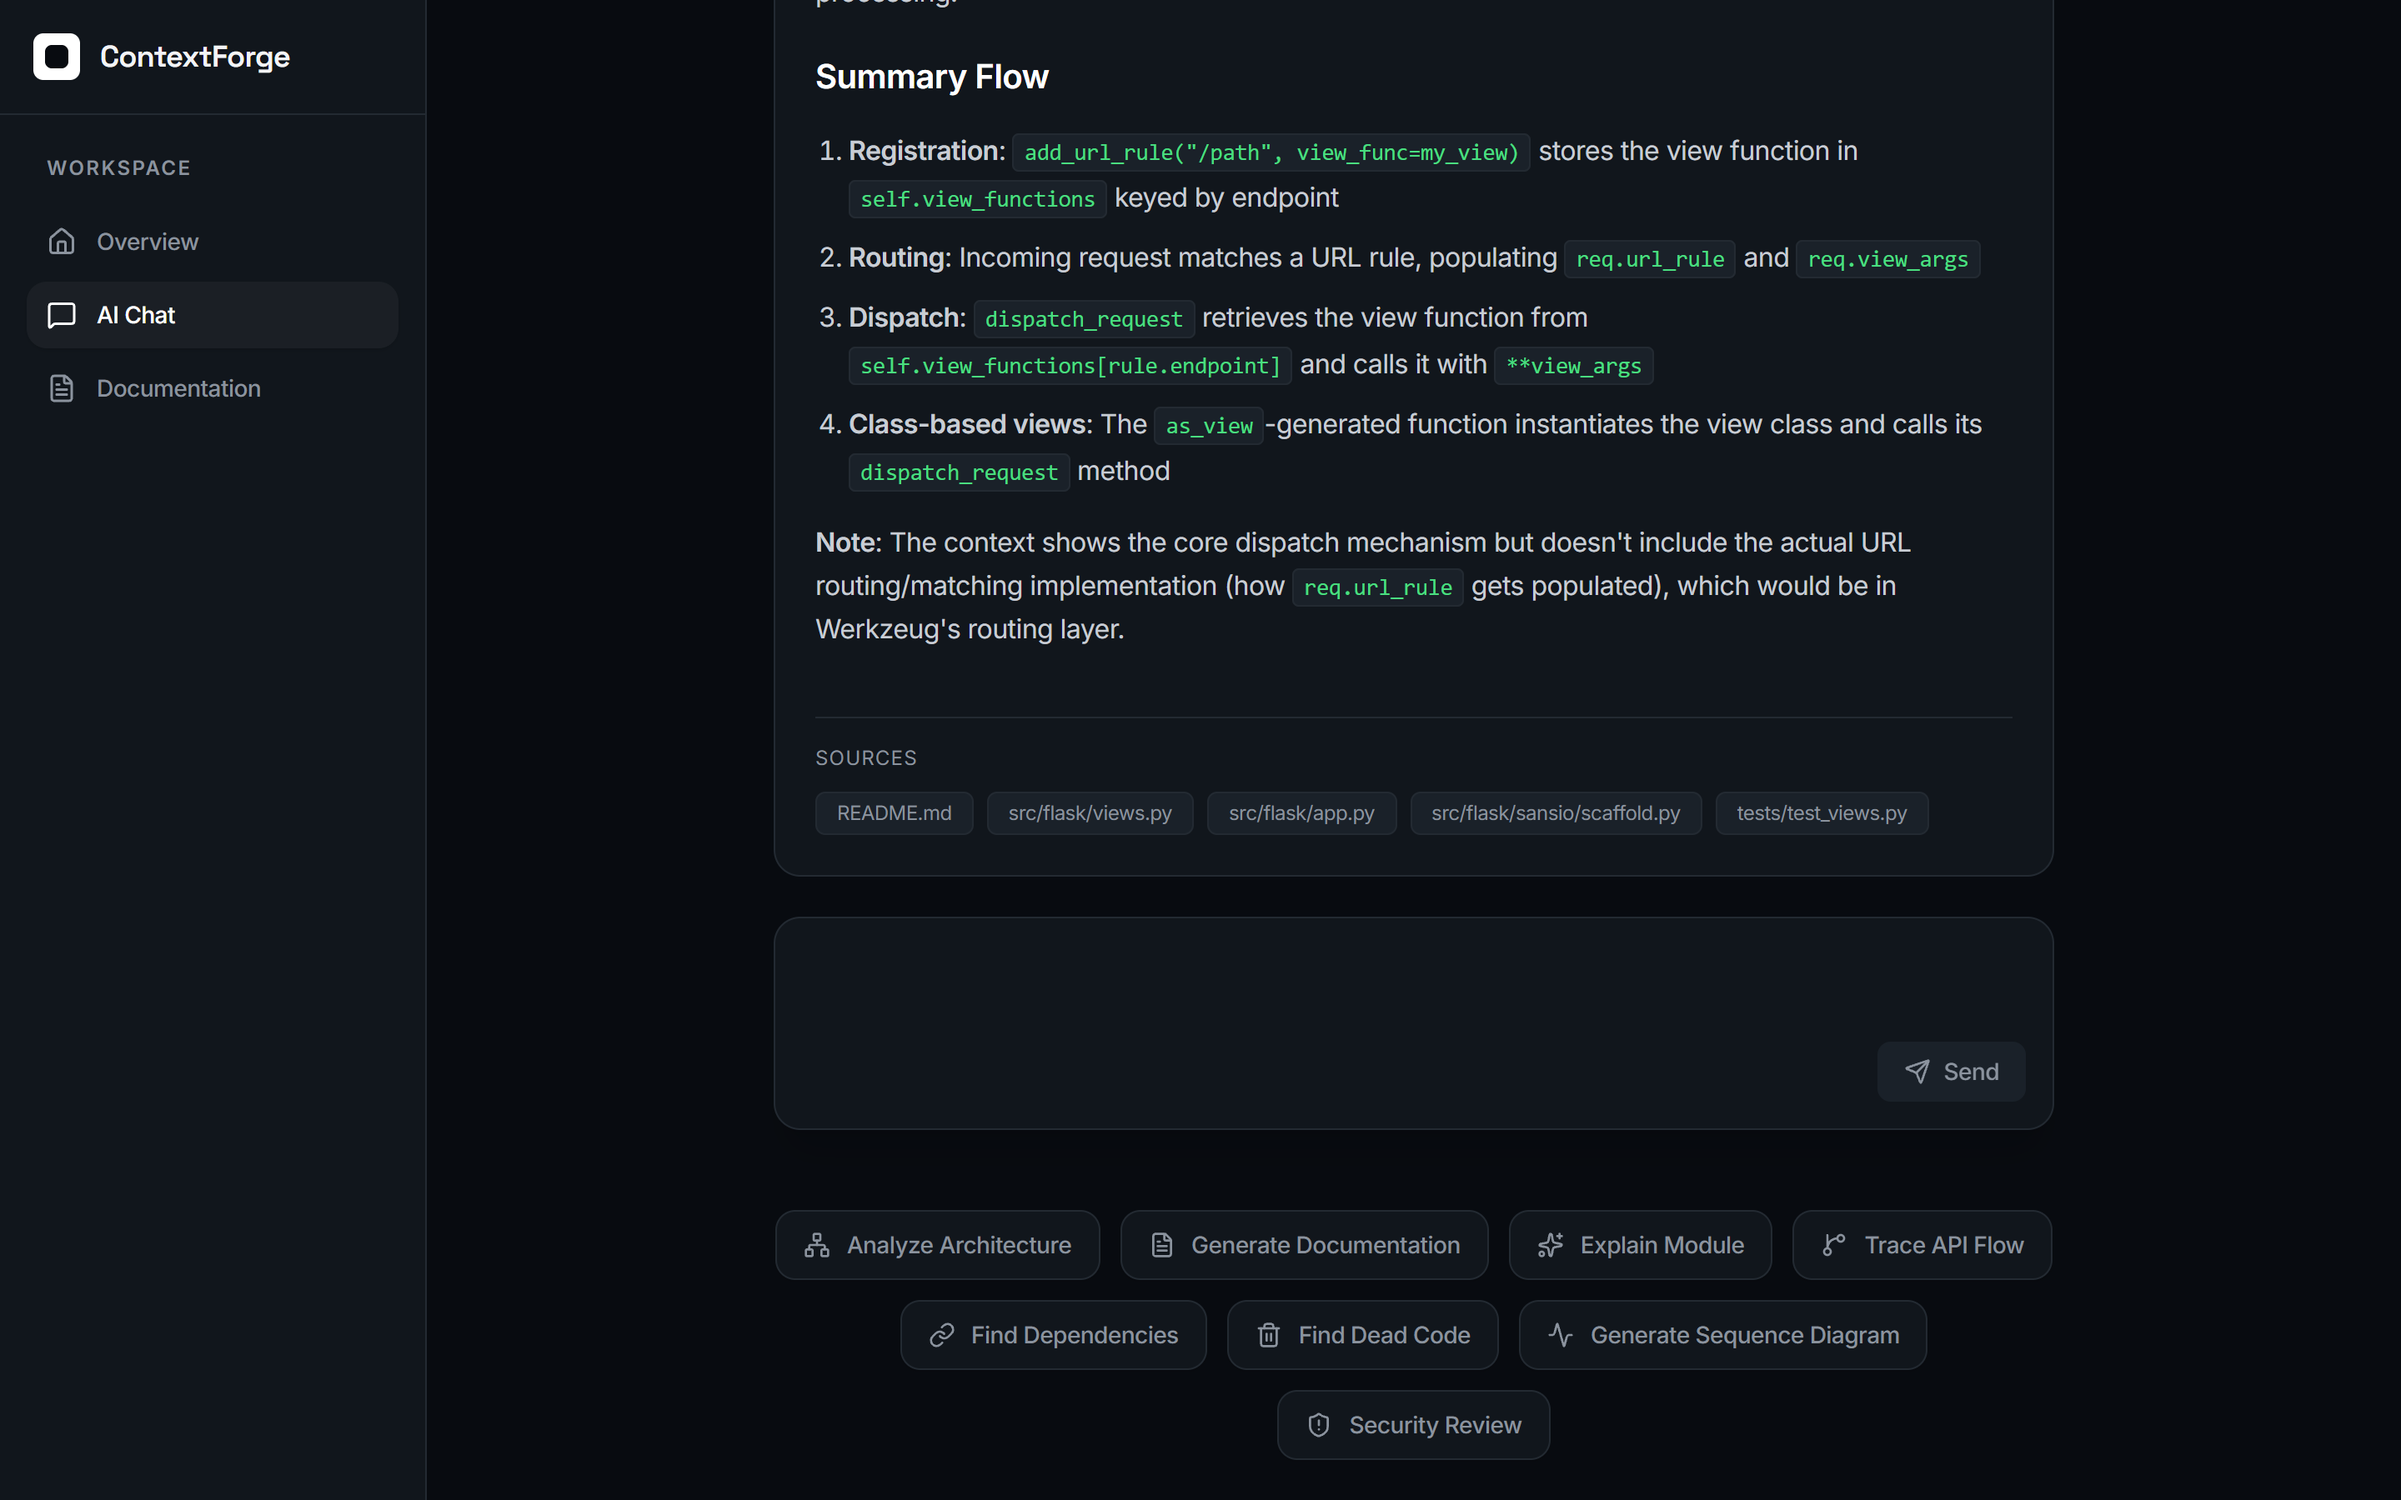
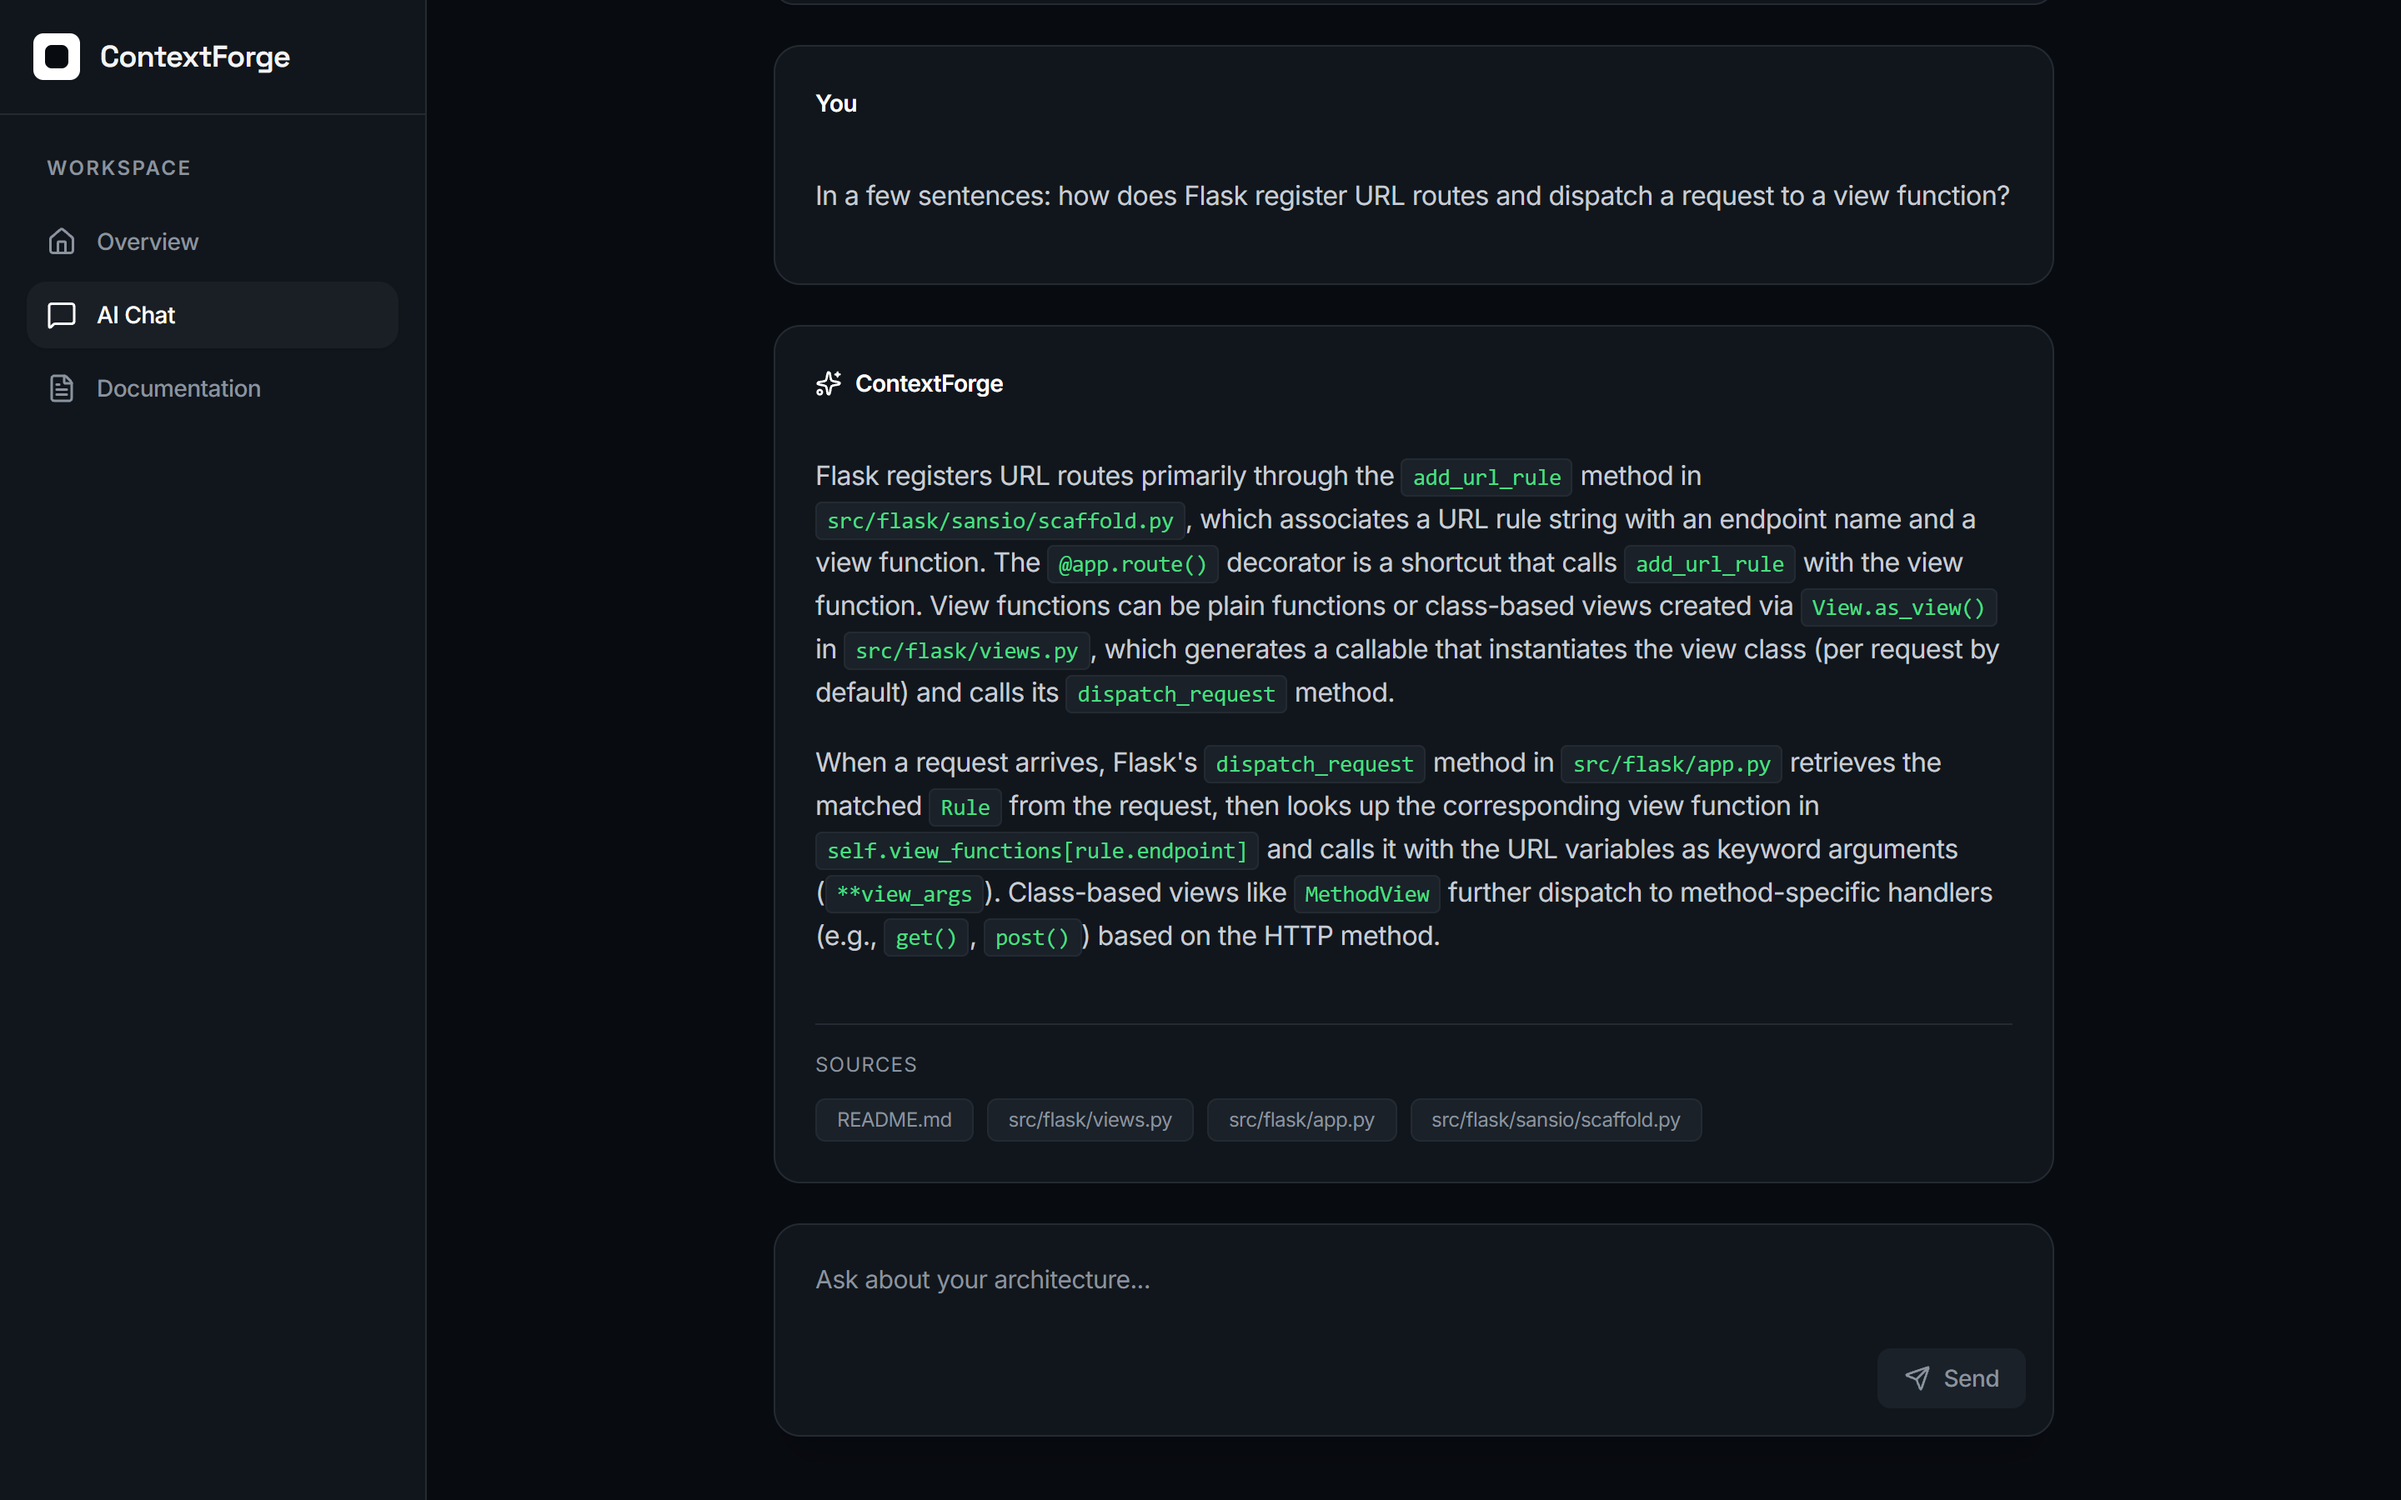
docs(readme): retrieval eval command and result; retake chat and docs shots
- Highlight: the hit rule now matches scripts/eval_retrieval.py (a top-k
  chunk overlaps a gold function body), plus how to run it and today's
  live result (top-5 9/10, top-8 9/10, top-10 10/10).
- docs.png: the regenerated flask report from its top.
- chat.png: question, start of the answer and cited sources in one frame.

diff --git a/README.md b/README.md
@@ -82,11 +82,17 @@ flowchart TD
 
 **Docs report: 129 s to 10–32 s.** The report timed out in the UI at 129 s. Diagnosis: token throughput of the model. Fix: whole-repo prompts go to a faster model with reasoning turned off. *Measured:* `/explain` wall time on the live server before and after the change (commit `37a2af6`). The run for the screenshot above took 12 s.
 
-**Retrieval hit rate on flask.** Top-5: 7/10 → 9/10. Top-10: 8/10 → 10/10. Each chunk now starts with its file path and the symbols it defines, and each answer uses 8 chunks instead of 5. *Measured:* 10 questions about flask, each with the file that answers it. A hit means that file is among the top k retrieved chunks (commit `c188f19`).
+**Retrieval hit rate on flask.** Top-5: 7/10 → 9/10. Top-10: 8/10 → 10/10. Each chunk now starts with its file path and the symbols it defines, and each answer uses 8 chunks instead of 5. *Measured:* 10 questions about flask ([docs/eval/flask_questions.json](docs/eval/flask_questions.json)), each with the functions that answer it. A hit means one of the top k chunks overlaps the body of one of those functions, located with Python's `ast` (commit `c188f19`). On 2026-11-13 the live index scored top-5 9/10, top-8 9/10, top-10 10/10. To reproduce, point the script at a backend and a checkout of the indexed commit:
+
+```bash
+cd backend
+python scripts/eval_retrieval.py --base-url http://127.0.0.1:8001 --source repos/flask
+```
 
 **Indexing on a 1 GB VM: about 7x faster.** express (1,084 chunks) took 626 s with an embedding batch of 64. The CPU sat about 70% in I/O wait because it was swapping. With a batch of 8 it took 87 s (1.7 → 12.5 chunks/s). *Measured:* wall time of `/index` on the live VM, with memory, swap and I/O wait watched during the run ([DEPLOY.md](DEPLOY.md)). Re-indexing flask for the screenshot above took 78 s for 941 chunks.
 
 **A real total deadline on LLM calls.** The SDK timeout only covered single reads, so a slow response plus a retry and the fallback models could run past the browser's timeout. Every call, including the retry and the fallback models, now runs inside one `anyio.fail_after` deadline: 60 s for chat, 85 s for reports. On expiry the upstream request is cancelled and the API returns 504, before the browser's own timeout (90 s / 110 s).
+
 
 ## Security
 
